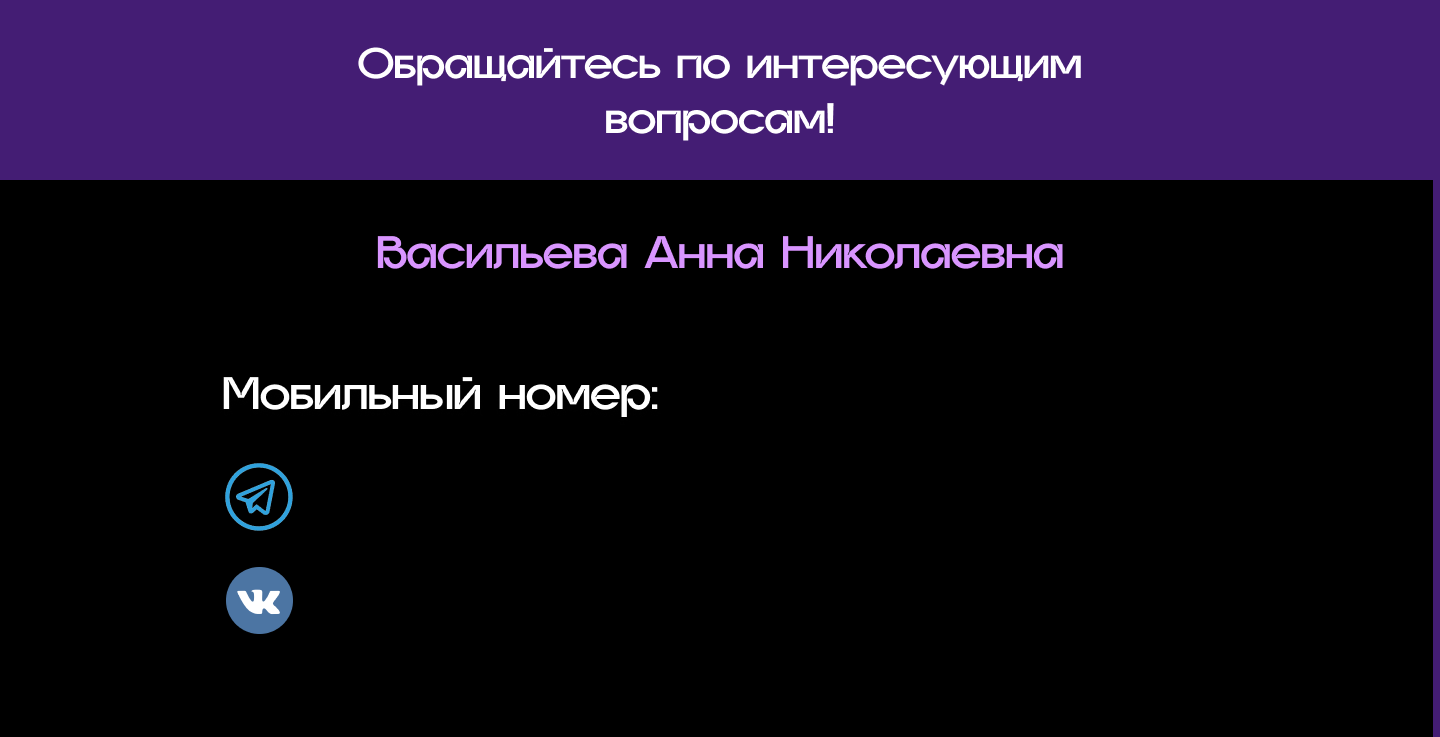
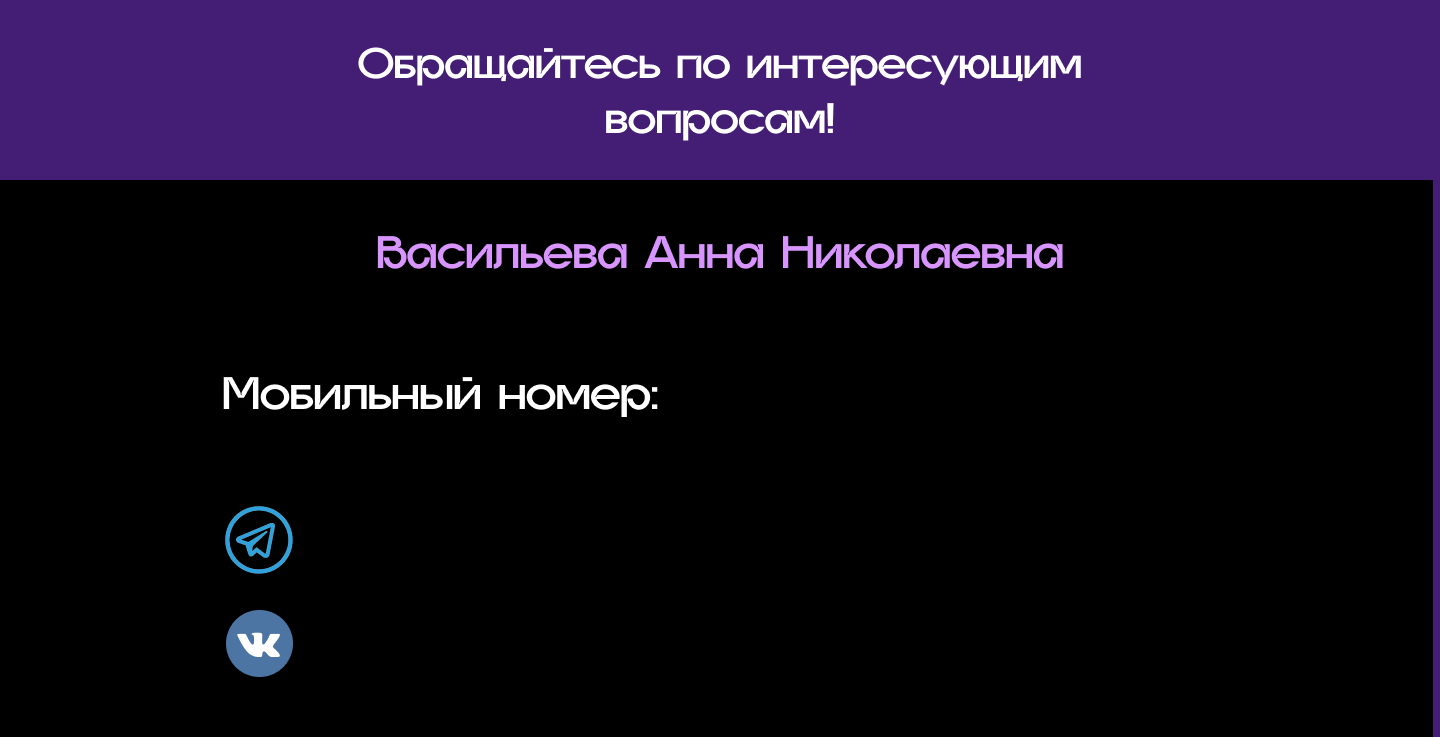
sayt

Changed region(s): [[0.1562, 0.6242, 0.2188, 0.9362]]

diff --git a/style.css b/style.css
@@ -66,7 +66,7 @@ ul {
     gap: 20px;
 }
 
-@media (width < 800px) {
+@media (max-width: 800px) {
     .main-column {
         flex-direction: column;
     }
@@ -350,7 +350,7 @@ a:hover {
 /* Свободное позиционирование каждого элемента */
 .link-telegram {
     position: absolute;
-    top: 64%; /* Расстояние сверху */
+    top: 69%; /* Расстояние сверху */
     left: 23%; /* Расстояние слева */
     font-family: 'Trebuchet MS';
     font-size: 2.5vw; /* Адаптивный размер шрифта */
@@ -360,7 +360,7 @@ a:hover {
 
 .link-vk {
     position: absolute;
-    top: 96%; /* Расстояние сверху */
+    top: 102%; /* Расстояние сверху */
     left: 32%; /* Расстояние слева */
     font-family: 'Trebuchet MS';
     font-size: 2.5vw; /* Адаптивный размер шрифта */
@@ -370,7 +370,7 @@ a:hover {
 
 .mailto-link span {
     position: absolute;
-    top: 64%; /* Расстояние сверху */
+    top: 70%; /* Расстояние сверху */
     left: 50%; /* Расстояние слева */
     font-family: 'Trebuchet MS';
     font-size: 2.5vw; /* Адаптивный размер шрифта */

diff --git a/КДЗ_№7(лабиринт)/КДЗ_№7(лабиринт)/obj/Debug/net8.0/КДЗ_№7(лабиринт).AssemblyInfo.cs b/КДЗ_№7(лабиринт)/КДЗ_№7(лабиринт)/obj/Debug/net8.0/КДЗ_№7(лабиринт).AssemblyInfo.cs
@@ -13,7 +13,7 @@ using System.Reflection;
 [assembly: System.Reflection.AssemblyCompanyAttribute("КДЗ_№7(лабиринт)")]
 [assembly: System.Reflection.AssemblyConfigurationAttribute("Debug")]
 [assembly: System.Reflection.AssemblyFileVersionAttribute("1.0.0.0")]
-[assembly: System.Reflection.AssemblyInformationalVersionAttribute("1.0.0+835ed261db0499944f64cd9e27f8c13535c4a05e")]
+[assembly: System.Reflection.AssemblyInformationalVersionAttribute("1.0.0+bcce2f2050a3976bbb871b4386016af529dff471")]
 [assembly: System.Reflection.AssemblyProductAttribute("КДЗ_№7(лабиринт)")]
 [assembly: System.Reflection.AssemblyTitleAttribute("КДЗ_№7(лабиринт)")]
 [assembly: System.Reflection.AssemblyVersionAttribute("1.0.0.0")]
